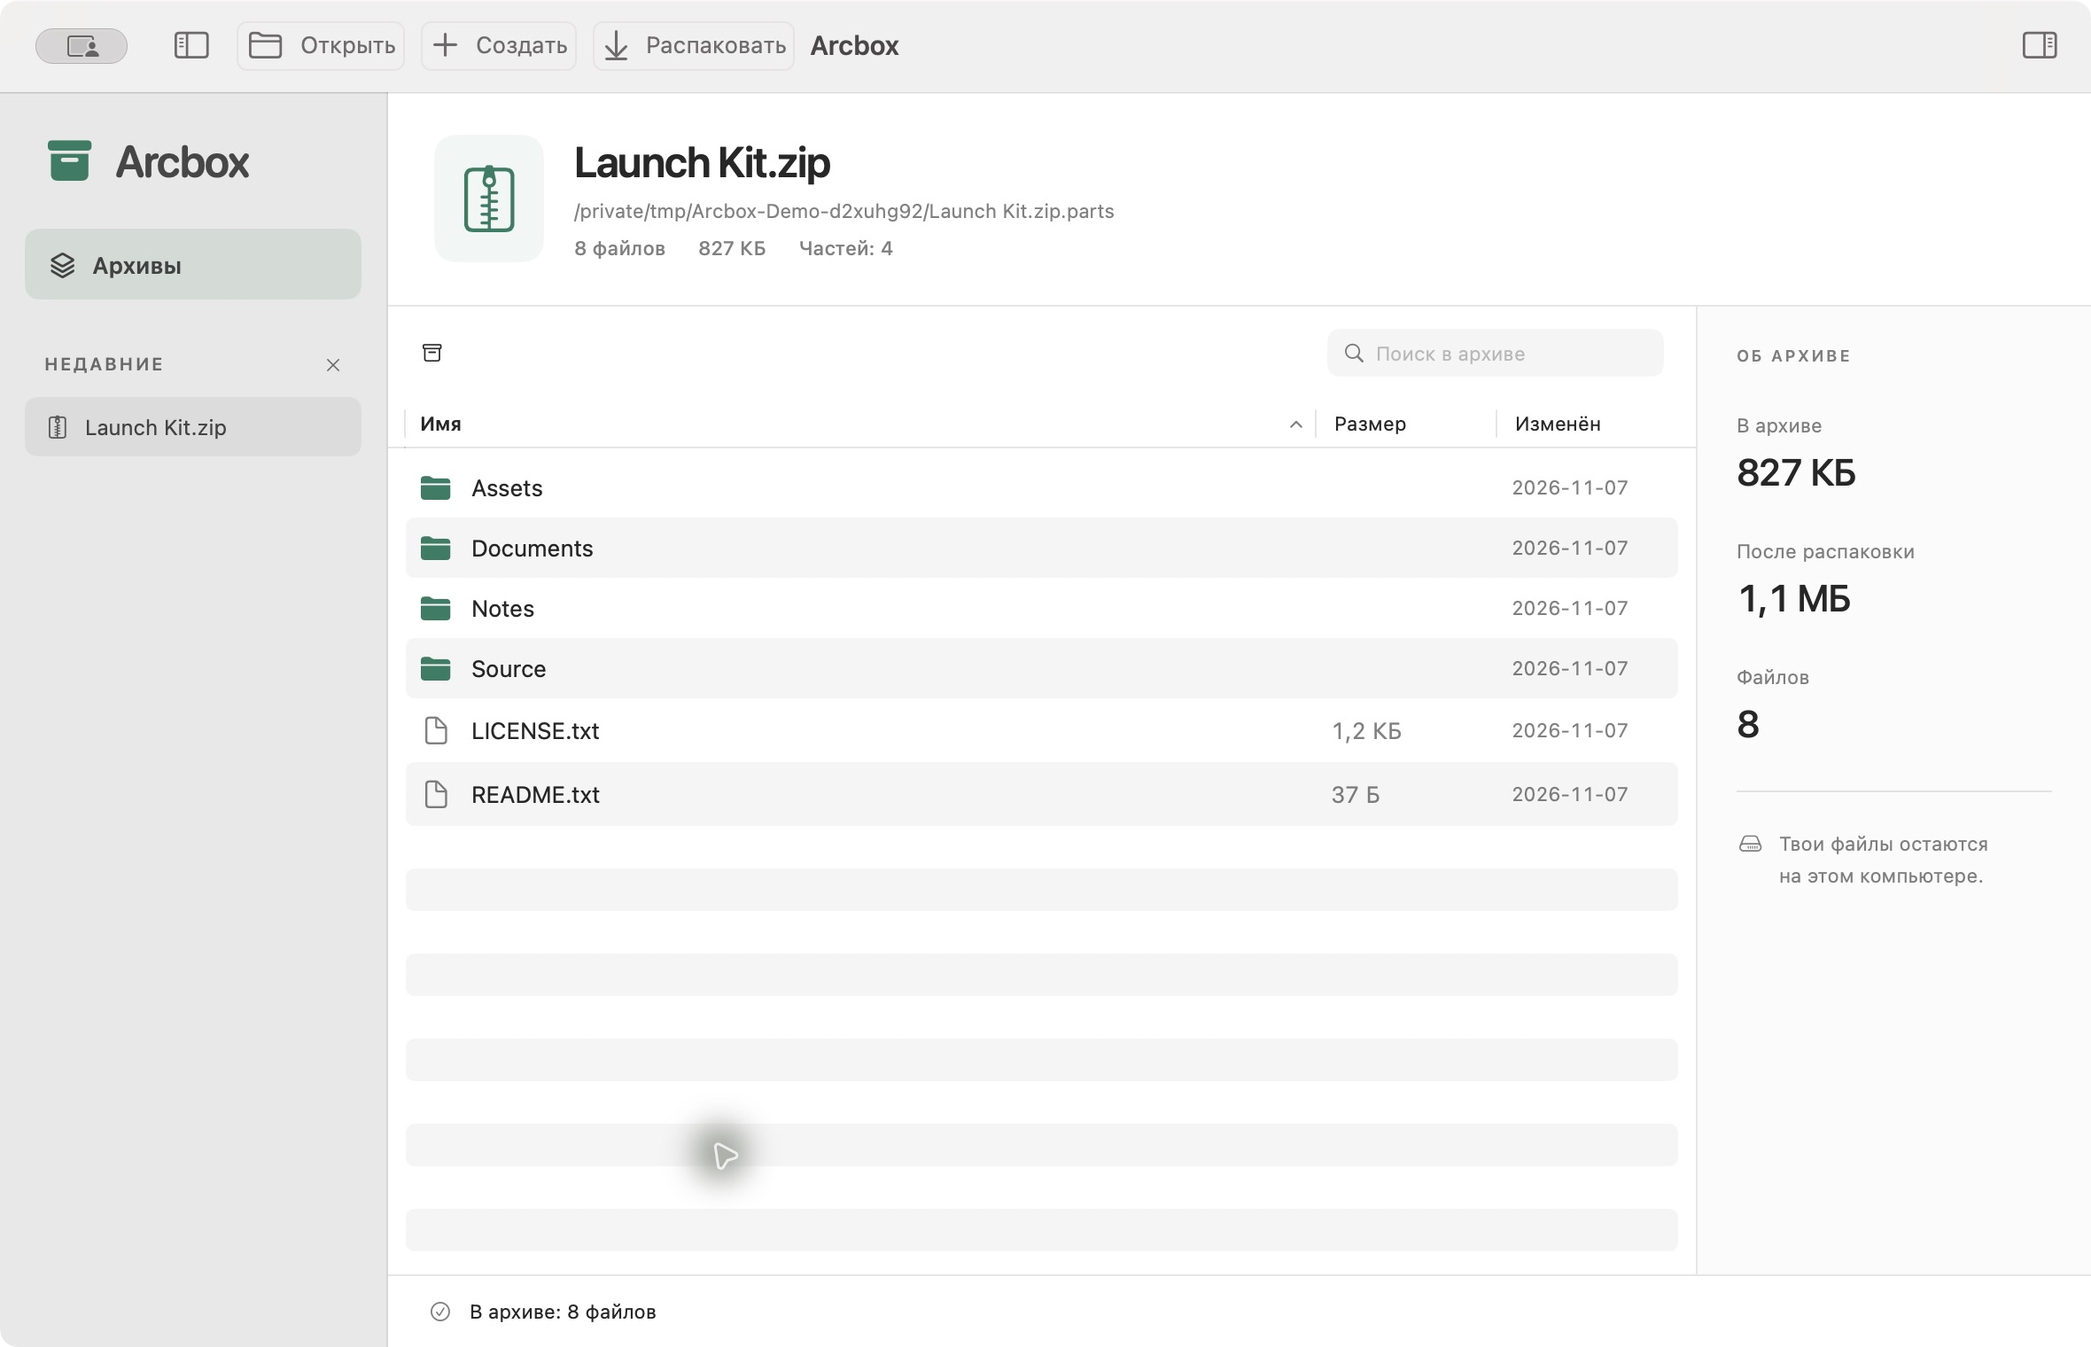
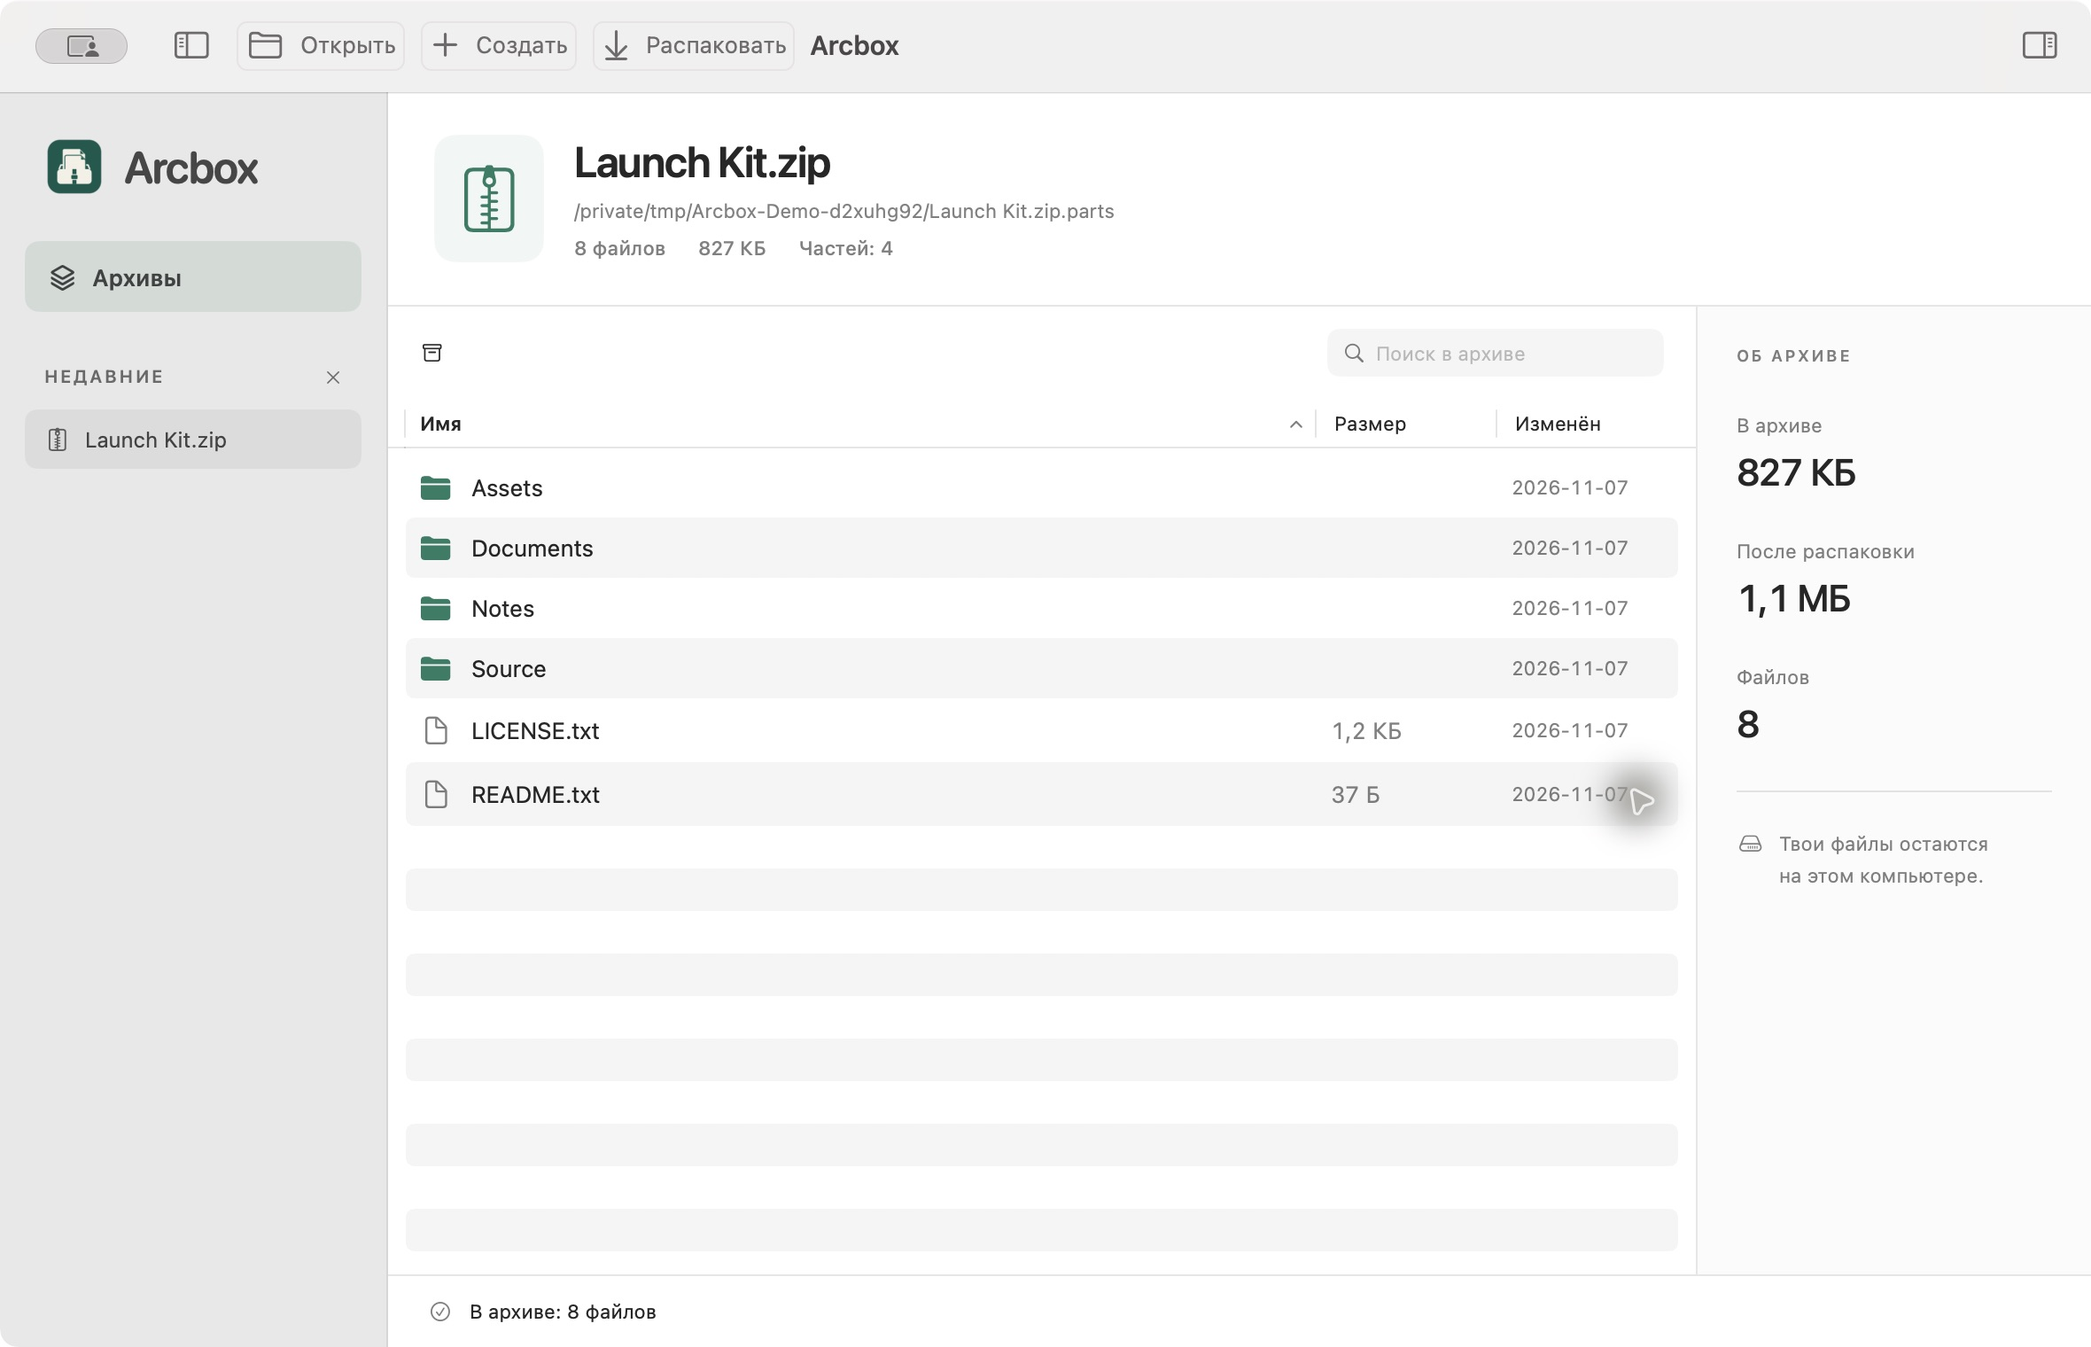
Ship clean vector artwork and prepare public MIT release

diff --git a/Sources/ArcboxApp/ContentView.swift b/Sources/ArcboxApp/ContentView.swift
@@ -4,6 +4,12 @@ import QuickLookUI
 
 let accent = Color(red: 0.13, green: 0.49, blue: 0.39)
 
+let arcboxIcon: NSImage = {
+    if let url = Bundle.main.url(forResource: "Arcbox", withExtension: "icns"),
+       let image = NSImage(contentsOf: url) { return image }
+    return NSImage(named: NSImage.applicationIconName) ?? NSImage()
+}()
+
 struct ContentView: View {
     @ObservedObject var model: ArchiveModel
     @State private var targeted = false
@@ -65,7 +71,8 @@ struct ContentView: View {
     private var sidebar: some View {
         VStack(alignment: .leading, spacing: 0) {
             HStack(spacing: 10) {
-                Image(systemName: "archivebox.fill").font(.system(size: 25, weight: .medium)).foregroundStyle(accent)
+                Image(nsImage: arcboxIcon).resizable().interpolation(.high)
+                    .frame(width: 36, height: 36).accessibilityHidden(true)
                 Text("Arcbox").font(.system(size: 25, weight: .semibold, design: .rounded)).tracking(-0.8)
             }.padding(.top, 24).padding(.bottom, 24).padding(.horizontal, 24)
             Label(L("Архивы"), systemImage: "square.stack.3d.up")
@@ -128,8 +135,8 @@ struct ContentView: View {
     private var welcome: some View {
         VStack(alignment: .leading, spacing: 0) {
             Spacer(minLength: 28)
-            Image(systemName: "archivebox").font(.system(size: 52, weight: .ultraLight)).foregroundStyle(accent)
-                .frame(width: 94, height: 94).background(accent.opacity(0.07), in: RoundedRectangle(cornerRadius: 25))
+            Image(nsImage: arcboxIcon).resizable().interpolation(.high)
+                .frame(width: 94, height: 94).accessibilityHidden(true)
                 .padding(.bottom, 26)
             Text(L("Всё внутри.\nВсё под рукой.")).font(.system(size: 38, weight: .semibold)).tracking(-1.3).lineSpacing(1)
             Text(L("Открывай, собирай и распаковывай архивы."))

diff --git a/scripts/make-icon.swift b/scripts/make-icon.swift
@@ -1,8 +1,8 @@
 import AppKit
 
 let output = CommandLine.arguments[1]
-guard let artwork = NSImage(contentsOfFile: "Resources/AppIcon.png") else {
-    fatalError("Missing Resources/AppIcon.png")
+guard let artwork = NSImage(contentsOfFile: "Resources/AppIcon.svg") else {
+    fatalError("Missing Resources/AppIcon.svg")
 }
 let temporary = FileManager.default.temporaryDirectory.appendingPathComponent("arcbox-\(UUID().uuidString).iconset")
 try FileManager.default.createDirectory(at: temporary, withIntermediateDirectories: true)

diff --git a/Sources/ArcboxApp/ArcboxApp.swift b/Sources/ArcboxApp/ArcboxApp.swift
@@ -6,6 +6,7 @@ final class AppDelegate: NSObject, NSApplicationDelegate {
     var model: ArchiveModel?
     var pending: URL?
     func applicationDidFinishLaunching(_ notification: Notification) {
+        NSApp.applicationIconImage = arcboxIcon
         NSApp.setActivationPolicy(.regular); NSApp.activate(ignoringOtherApps: true)
     }
     func application(_ application: NSApplication, open urls: [URL]) {

diff --git a/Sources/ArcboxCore/Engine.swift b/Sources/ArcboxCore/Engine.swift
@@ -1,7 +1,7 @@
 import Foundation
 
 public struct ArchiveEngine: Sendable {
-    public static let version = "0.2.0"
+    public static let version = "0.2.1"
     public static let defaultLimit: Int64 = 20 * 1024 * 1024 * 1024
     public let executable: URL
     public init(executable: URL? = nil) throws {

diff --git a/README.md b/README.md
@@ -11,6 +11,7 @@ created: "2026-11-07"
 <p align="center"><strong>Your archives. Within reach.</strong></p>
 <p align="center">A native macOS archive manager for people and agents.<br>Open, create and extract, including multipart archives.</p>
 <p align="center">
+  <a href="https://github.com/ai-babai/arcbox/releases/latest"><img alt="Latest release" src="https://img.shields.io/github/v/release/ai-babai/arcbox?color=337C68"></a>
   <img alt="macOS 14 or later" src="https://img.shields.io/badge/macOS-14%2B-337C68?logo=apple&logoColor=white">
   <img alt="Apple Silicon and Intel" src="https://img.shields.io/badge/Universal-Apple%20Silicon%20%2B%20Intel-337C68">
   <img alt="English and Russian" src="https://img.shields.io/badge/Languages-EN%20%2F%20RU-337C68">
@@ -30,7 +31,7 @@ created: "2026-11-07"
 2. Open it and drag **Arcbox** into **Applications**.
 3. Launch Arcbox. No Homebrew, Swift, or separate archive tools are required.
 
-Requires **macOS 14 Sonoma or later**. The same download contains Apple Silicon and Intel binaries. The ZIP download contains the same application if you prefer that format. This repository and its downloads are private; your GitHub account needs access.
+Requires **macOS 14 Sonoma or later**. The same download contains Apple Silicon and Intel binaries. The ZIP download contains the same application if you prefer that format. Downloads are public and do not require a GitHub account.
 
 **First-launch note:** this release is signed ad hoc and **is not notarized by Apple**. If macOS blocks it, first verify the download, then follow Apple's per-app **System Settings → Privacy & Security → Open Anyway** flow. See [installation instructions](docs/INSTALL.txt) and [Apple's guidance](https://support.apple.com/102445). Do not disable Gatekeeper globally. A managed Mac may require administrator approval.
 
@@ -134,7 +135,7 @@ Tools: `arcbox_list`, `arcbox_test`, `arcbox_create`, `arcbox_extract`, `arcbox_
 
 Build with Xcode Command Line Tools / Swift 5.9+ on macOS. The first build downloads a pinned official 7-Zip archive, verifies its SHA-256, and bundles the engine. There are no third-party Swift package dependencies. Release packaging requires a Git commit so that `release-info.json` records the exact source revision.
 
-[Development guide](docs/DEVELOPMENT.md) · [Product journey](docs/customer-journey.en.md) · [Changelog](CHANGELOG.md) · [Security policy](SECURITY.md)
+[Development guide](docs/DEVELOPMENT.md) · [Product journey](docs/customer-journey.en.md) · [Contributing](CONTRIBUTING.md) · [Changelog](CHANGELOG.md) · [Security policy](SECURITY.md)
 
 ## Current boundaries
 

diff --git a/docs/assets/README.md b/docs/assets/README.md
@@ -7,11 +7,11 @@ created: "2026-11-07"
 
 ## Application icon
 
-`Resources/AppIcon.png` is the source raster artwork; `docs/assets/icon.png` is its README copy. `scripts/make-icon.swift` resamples it into the standard macOS icon sizes and builds Arcbox.icns without changing the design.
+`Resources/AppIcon.svg` is the production vector artwork. It uses two solid fills with transparent outside padding, without generated texture. `scripts/make-icon.swift` renders it through AppKit into every macOS icon size and builds Arcbox.icns. `docs/assets/icon.png` is the rendered README copy.
 
-Generated on 2026-11-07 with the built-in OpenAI image generation tool at the owner's request for a stylish, thematic, recognizable and minimalist archive icon. No reference image was used. The icon is an original generated asset, not an Apple SF Symbol or a WinRAR logo.
+The initial concept was generated on 2026-11-07 with the built-in OpenAI image generation tool at the owner's request for a recognizable, minimalist archive icon. The generated raster contained unwanted mottling; attempts to remove it did not meet the flat-color requirement. For 0.2.1 the archive case, two files and compression strap were redrawn as SVG geometry. The final shipped artwork is the SVG, not the discarded generated raster. No Apple SF Symbol or WinRAR logo is used as application artwork.
 
-Final prompt:
+Original concept prompt (historical):
 
 > Use case: logo-brand. Asset type: final macOS application icon for Arcbox, an archive manager. Create ONE finished icon, not a concept sheet. Minimalist, instantly recognizable archive / compressed files symbol. A bold warm-white geometric archive case holding two simple layered file sheets, unified by a single narrow deep-green compression band; few large shapes, strong silhouette, no tiny zipper teeth. Original distinctive design, not a copy of WinRAR, Keka, Apple's Archive Utility or any existing icon. Restrained forest/teal green rounded-square macOS tile, with the warm-white archive mark centered; mostly flat, with only a very subtle tactile edge, no glossy 3D rendering, no gradients or glow. Standard macOS icon proportions: tile occupies about 84% of a 1024x1024 square canvas with even transparent outside padding and soft continuous corners. Main symbol should remain clear at 16 and 32 pixels. No letters, no A monogram, no text, no labels, no watermark, no surrounding scene, no mockup. Actual transparent background outside the green tile. Quiet, precise, beautiful utility icon.
 

diff --git a/docs/releases/v0.2.1.md b/docs/releases/v0.2.1.md
@@ -1,0 +1,26 @@
+---
+type: Release Notes
+description: Arcbox 0.2.1 icon correction, public MIT release and installation notes in English and Russian.
+created: "2026-11-07"
+---
+# Arcbox 0.2.1
+
+A visual fix for the application icon.
+
+The project is now public under MIT, including Arcbox's original code and artwork. The bundled 7-Zip engine retains its separate licenses. Downloads no longer require repository access.
+
+- Removed the mottled texture and dark smudges from the artwork.
+- The sidebar and welcome screen now show the same icon as the macOS application.
+- The running Dock icon is refreshed from the bundled artwork on launch.
+
+Download **Arcbox-0.2.1-universal.dmg**, open it and drag Arcbox into Applications, replacing the earlier version. Quit the old version before launching the new one. The ZIP contains the same application. SHA256SUMS.txt verifies both downloads and release-info.json.
+
+Requires macOS 14+. Universal Apple Silicon/Intel binaries; runtime checked on Apple Silicon. Ad-hoc signed, **not Apple-notarized**. If macOS blocks the first launch, follow the per-app [Apple instructions](https://support.apple.com/102445).
+
+## Русский
+
+Исправлена иконка: чистая заливка без пятен и потёртостей. Новый знак теперь используется в sidebar, на стартовом экране и в Dock.
+
+Репозиторий открыт под MIT: код и собственная графика Arcbox доступны всем. У встроенного 7-Zip сохраняются отдельные лицензии. Загрузки доступны без GitHub-аккаунта.
+
+Скачай **Arcbox-0.2.1-universal.dmg**, закрой прежнюю версию и замени приложение в Applications. Возможности архиватора и переводы EN/RU сохранены. Сборка Universal для macOS 14+, без Apple notarization.

diff --git a/docs/README.ru.md b/docs/README.ru.md
@@ -23,7 +23,7 @@ SwiftUI/AppKit + общий Swift core + официальный 7-Zip 26.05.
 3. Запусти приложение. Для установки не нужны Homebrew, Swift или отдельный архиватор.
 
 Нужна macOS 14 Sonoma или новее. В одной сборке есть Apple Silicon и Intel.
-Репозиторий и загрузки приватные: GitHub-аккаунту нужен доступ.
+Репозиторий открыт под MIT. Для скачивания GitHub-аккаунт не нужен.
 
 **Первый запуск:** сборка подписана ad hoc, **без Apple notarization**. Если macOS
 блокирует запуск, проверь SHA-256 скачанного файла, затем разреши именно Arcbox
@@ -199,5 +199,5 @@ LGPL с BSD-компонентами и ограничением unRAR. Полн
 включён в приложение в `Contents/Resources/7zip-license/`.
 [Исходники движка](https://github.com/ip7z/7zip/tree/26.05).
 
-Репозиторий приватный: для скачивания нужен GitHub-аккаунт с доступом.
+Код и собственная графика Arcbox открыты под MIT; лицензии 7-Zip сохраняются отдельно.
 Подробности установки и первого запуска: [инструкция](INSTALL.txt).

diff --git a/SECURITY.md b/SECURITY.md
@@ -5,7 +5,9 @@ created: "2026-11-07"
 ---
 # Security
 
-Please report security issues to the maintainer through a private repository issue. Include the affected version, archive format, reproduction steps and expected behavior. Use a minimal non-sensitive reproduction; do not upload personal archives, passwords or credentials.
+Please use [GitHub's private vulnerability reporting](https://github.com/ai-babai/arcbox/security/advisories/new) for security issues. Do not post unpatched vulnerabilities in public issues. Include the affected version, archive format, reproduction steps and expected behavior. Use a minimal non-sensitive reproduction; do not upload personal archives, passwords or credentials.
+
+Для сообщения об уязвимости используй [закрытый отчёт GitHub](https://github.com/ai-babai/arcbox/security/advisories/new), а не публичный issue. Укажи версию и шаги воспроизведения без личных архивов и паролей.
 
 Arcbox processes untrusted archive metadata. It rejects traversal paths, links, ambiguous listings and conflicting names, confines extraction writes, validates the output, and uses new destinations. These measures are defense in depth, not a formal security audit. Keep the bundled engine updated through reviewed, checksum-pinned releases.
 

diff --git a/THIRD_PARTY.md b/THIRD_PARTY.md
@@ -22,4 +22,4 @@ The full upstream `License.txt` and `readme.txt` are included in every app at `C
 
 ## Apple frameworks
 
-SwiftUI, AppKit, Foundation, CryptoKit and Quick Look are supplied by macOS. No framework, font or SF Symbols asset is redistributed separately. The application icon is a generated raster asset. Its [provenance and prompt](docs/assets/README.md) are documented; `scripts/make-icon.swift` only builds the macOS icon sizes.
+SwiftUI, AppKit, Foundation, CryptoKit and Quick Look are supplied by macOS. No framework, font or SF Symbols asset is redistributed separately. The application icon is original SVG artwork, redrawn from an initial generated concept. Its [provenance and prompt](docs/assets/README.md) are documented; `scripts/make-icon.swift` renders the SVG into the macOS icon sizes.

diff --git a/CONTRIBUTING.md b/CONTRIBUTING.md
@@ -5,7 +5,9 @@ created: "2026-11-07"
 ---
 # Contributing
 
-Read [AGENTS.md](AGENTS.md), [the development guide](docs/DEVELOPMENT.md) and [the product journey](docs/customer-journey.md).
+Read [AGENTS.md](AGENTS.md), [the development guide](docs/DEVELOPMENT.md) and [the product journey](docs/customer-journey.en.md).
+
+Bug reports and focused pull requests are welcome. Issues and discussions in English or Russian are welcome. By submitting a contribution, you agree to license it under the project's [MIT license](LICENSE).
 
 - Keep changes focused on observable user behavior.
 - Implement operation behavior once in ArcboxCore, then expose it consistently to GUI/CLI/MCP.

diff --git a/AGENTS.md b/AGENTS.md
@@ -15,4 +15,4 @@ Start with [INDEX.md](INDEX.md) and [the development guide](docs/DEVELOPMENT.md)
 - Maintain EN/RU string catalogs together. Keep machine-readable error codes stable.
 - Do not introduce durable tests, fixtures or CI checks without explicit maintainer approval. Scratch checks outside the repository are allowed.
 - Do not commit personal archives, credentials, local paths or release binaries.
-- Publication and release visibility are explicit maintainer decisions. The repository is private.
+- The repository is public under MIT by the owner's explicit decision. Visibility changes remain maintainer decisions.
